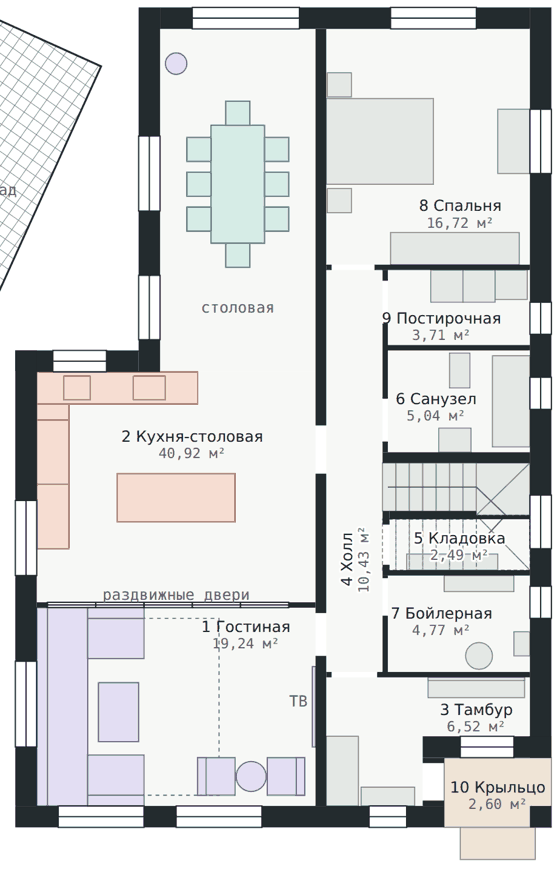
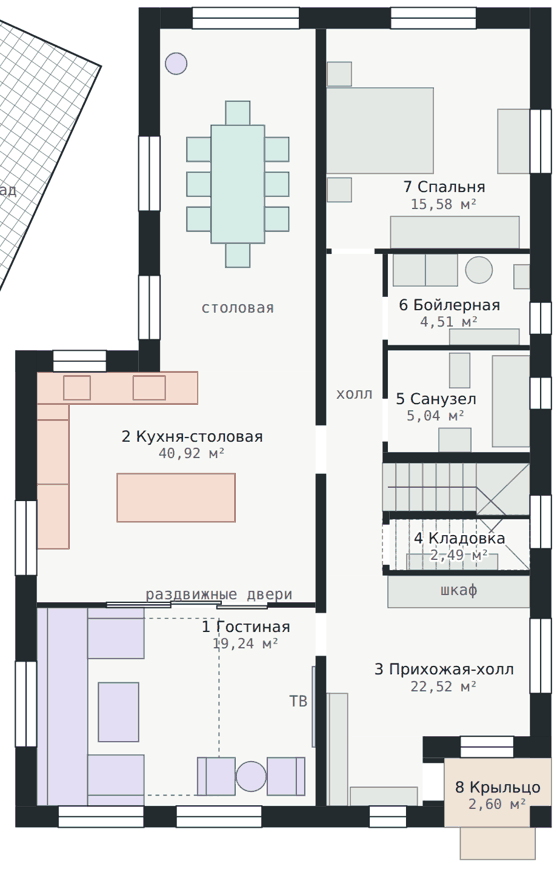
Variant 5: open entrance hall, boiler room back by the bathroom, new kitchen partition
All walls in front of the stair are removed, so the entrance is one open
hall with a full-height wardrobe, an open coat rack with a bench, a shoe
cabinet and a mirror. The boiler room returns next to the bathroom and
grows to 4.5 m2 by moving the bedroom wall back 0.3 m. The living/kitchen
partition is now solid at both ends with fixed glass and two sliding
glass leaves.

Claude-Session: https://claude.ai/code/session_01Nq58rekvZSDXxWiDhZZmV7

diff --git a/dom/v5-dvuskatnaya.html b/dom/v5-dvuskatnaya.html
@@ -82,7 +82,7 @@ tr.out td{color:var(--muted)}
 <svg width="0" height="0" style="position:absolute" aria-hidden="true" focusable="false"><defs><pattern id="hatch" width="9" height="9" patternUnits="userSpaceOnUse" patternTransform="rotate(35)"><path d="M0 0 L0 9 M0 0 L9 0" stroke="var(--f-stroke)" stroke-width="1"/></pattern></defs></svg>
 <header>
 <h1>Дом · вариант 5, вход справа, гостиная и кухня слева, двускатная крыша</h1>
-<div class="specs"><span>общая <b>≈ 215,5 м²</b></span><span>1 этаж <b>109,8 м²</b></span><span>2 этаж <b>105,7 м²</b></span><span>сзади <b>7,7 × 6,4 м</b></span><span>спереди <b>10,0 × 8,9 м</b></span><span>склад <b>5,5 × 5,6 м</b></span><span>балкон <b>7,3 м²</b></span><span>длина <b>15,3 м</b></span><span>фундамент <b>плита 250 мм с рёбрами</b></span><span>крыша <b>двускатная, 30°</b>, конёк <b>≈ 8,2 м</b> от земли</span><span>2 этаж у наружных стен <b>1,5–2,3 м</b></span></div>
+<div class="specs"><span>общая <b>≈ 216,0 м²</b></span><span>1 этаж <b>110,3 м²</b></span><span>2 этаж <b>105,7 м²</b></span><span>сзади <b>7,7 × 6,4 м</b></span><span>спереди <b>10,0 × 8,9 м</b></span><span>склад <b>5,5 × 5,6 м</b></span><span>балкон <b>7,3 м²</b></span><span>длина <b>15,3 м</b></span><span>фундамент <b>плита 250 мм с рёбрами</b></span><span>крыша <b>двускатная, 30°</b>, конёк <b>≈ 8,2 м</b> от земли</span><span>2 этаж у наружных стен <b>1,5–2,3 м</b></span></div>
 </header>
 <div class="row">
 <div class="bar big" id="floors"><span class="lbl">Показать</span>
@@ -112,7 +112,7 @@ tr.out td{color:var(--muted)}
 <svg id="fplan" viewBox="0 -70 680 960" width="100%" role="img" style="min-width:540px"><title>План фундамента</title><desc>Монолитная плита 250 мм по контуру дома: сзади 7,7 м, спереди 10,0 м, длина 15,3 м, в правом переднем углу вырез под крыльцо. Рёбра под плитой показаны пунктиром, отдельные плиты крыльца и площадки у двери в сад, привязка к границе участков и переднему забору. Размеры в мм.</desc></svg>
 <svg id="fsec" viewBox="0 0 680 300" width="100%" role="img" style="min-width:540px;margin-top:6px"><title>Край плиты в разрезе</title><desc>Разрез по наружной стене: стена 400, плита 250, ребро 400 × 400, ЭППС 100, подушка 300, утеплённая отмостка, отметки от чистого пола.</desc></svg>
 </div>
-<svg id="plan1" viewBox="0 0 680 760" width="100%" role="img" style="min-width:540px" hidden><title>План первого этажа</title><desc>Первый этаж, вариант 5: спереди дом шириной 10 м. Вход справа: крыльцо в правом переднем углу под вторым этажом, за ним тамбур и холл. Слева от фасада назад гостиная, за стеклянными дверями кухня с островом и в узкой задней части столовая с выходом в сад. Справа тамбур-прихожая с вешалкой и обувницей, бойлерная, холл, лестница с кладовкой, санузел, постирочная и спальня. Размеры в мм.</desc></svg>
+<svg id="plan1" viewBox="0 0 680 760" width="100%" role="img" style="min-width:540px" hidden><title>План первого этажа</title><desc>Первый этаж, вариант 5: спереди дом шириной 10 м. Вход справа: крыльцо в правом переднем углу под вторым этажом, за ним большая прихожая-холл. Слева от фасада назад гостиная, за перегородкой с раздвижными стеклянными дверями кухня с островом и в узкой задней части столовая с выходом в сад. Справа прихожая-холл без перегородок до лестницы, со шкафом, вешалкой и обувницей, дальше лестница с кладовкой, санузел, бойлерная и спальня. Размеры в мм.</desc></svg>
 <svg id="plan2" viewBox="0 0 680 760" width="100%" role="img" style="min-width:540px"><title>План второго этажа</title><desc>Второй этаж, вариант 5, полумансардный под двускатной крышей: мастер-спальня, гардеробная и санузел в задней части, Г-образная спальня, большой общий санузел, коридор с лестницей справа, кабинет с выходом на балкон слева спереди и спальня справа спереди. Пунктиром показаны окна в крыше. Размеры в мм.</desc></svg>
 </div>
 <div class="card">
@@ -132,15 +132,13 @@ tr.out td{color:var(--muted)}
 <caption>Экспликация · 1 этаж</caption>
 <tr><td>1</td><td>Гостиная</td><td>19,24</td></tr>
 <tr><td>2</td><td>Кухня-столовая</td><td>40,92</td></tr>
-<tr><td>3</td><td>Тамбур-прихожая</td><td>6,52</td></tr>
-<tr><td>4</td><td>Холл и коридор с лестницей</td><td>10,43</td></tr>
-<tr><td>5</td><td>Кладовка под лестницей</td><td>2,49</td></tr>
-<tr><td>6</td><td>Санузел</td><td>5,04</td></tr>
-<tr><td>7</td><td>Бойлерная</td><td>4,77</td></tr>
-<tr><td>8</td><td>Спальня</td><td>16,72</td></tr>
-<tr><td>9</td><td>Постирочная</td><td>3,71</td></tr>
-<tr class="sum"><td></td><td>Итого</td><td>109,84</td></tr>
-<tr class="out"><td>10</td><td>Крыльцо</td><td>2,60</td></tr>
+<tr><td>3</td><td>Прихожая-холл с лестницей</td><td>22,52</td></tr>
+<tr><td>4</td><td>Кладовка под лестницей</td><td>2,49</td></tr>
+<tr><td>5</td><td>Санузел</td><td>5,04</td></tr>
+<tr><td>6</td><td>Бойлерная</td><td>4,51</td></tr>
+<tr><td>7</td><td>Спальня</td><td>15,58</td></tr>
+<tr class="sum"><td></td><td>Итого</td><td>110,30</td></tr>
+<tr class="out"><td>8</td><td>Крыльцо</td><td>2,60</td></tr>
 </table>
 <table id="t2">
 <caption>Экспликация · 2 этаж</caption>
@@ -173,17 +171,17 @@ tr.out td{color:var(--muted)}
 <li><b>Фундамент — монолитная плита 250 мм</b> ровно по контуру дома, 135,7 м². Снизу рёбра: по контуру 400 × 400 мм под наружными стенами и одно ребро 300 × 300 мм под несущей стеной вдоль дома, 13,2 м. Остальные стены первого этажа — перегородки, отдельные рёбра под ними не нужны. Верх плиты на −0,100, на стяжку и пол остаётся 100 мм. Низ плиты на уровне земли, низ рёбер на −0,750. Под плитой ЭППС 100 мм и песчано-щебёночная подушка 300 мм, торец плиты утеплён, вокруг утеплённая отмостка. Бетона под дом уходит ≈43,1 м³. Крыльцо в правом переднем углу и площадка у двери в сад стоят на отдельных плитах 200 мм через шов, под угловой стойкой крыльца отдельная опора. Сечения ориентировочные: армирование и точные размеры считает конструктор по геологии участка.</li>
 <li><b>Mercedes Atego с кузовом 7 м</b> (вся машина около 9,3 м) заезжает вдоль переднего забора и проезжает вперёд до границы второго участка. До забора 0,5 м, до фасада около 1,5 м, проход к крыльцу остаётся. Чтобы грузовик заезжал прямо вдоль забора, ворота 4,5 м сдвинуты в самый угол торца, калитка дальше по торцу. Это работает, если с улицы он подъезжает примерно вдоль переднего забора. Площадка засыпана асфальтной крошкой. Кузов высотой около 3,3 м будет стоять напротив окон гостиной и тамбура на фасаде и затенять его.</li>
 <li><b>Склад 5,5 × 5,6 м</b> стоит стороной 5,6 м вплотную к левому забору, под углом ≈24° к дому. Склад обшит OSB. Дверь пластиковая прозрачная, у склада два окна 1 × 1 м: рядом с дверью слева и справа за углом. Через 1 м после склада вдоль забора в сторону ворот стоит вагончик-бытовка 8 × 2,4 м на блоках: обшит серым профлистом, по контуру синий профиль, крыша плоская чёрная. Дверь справа на длинной стороне к двору, окна только в торцах. Между углом склада и задней частью дома проход 0,7 м, от передней широкой части до склада тоже 0,7 м. Склад стоит на стальных сваях с зазором 40 см от земли. Корпус высотой 3 м со стороны дома и 2 м у забора, крыша со скатом к забору. Вход через обычную пластиковую дверь с крыльцом из трёх ступенек в торце со стороны входа в дом.</li>
-<li><b>Вариант 5.</b> Форма дома как в четвёртом: сзади 7,7 м по линии выступа, с 6,4 м от задней стены одна ступенька и дальше до фасада 10 м, до склада везде 0,7 м. Вход справа: крыльцо 2,0 × 1,3 м утоплено в правый передний угол под второй этаж, на углу стойка. Дверь с крыльца ведёт в тамбур, из него в холл. Слева вся ширина от фасада до сада отдана дневной зоне: спереди гостиная, за ней кухня, в конце дома, в узкой части шириной 2,9 м, столовая с выходом в сад. Справа тамбур-прихожая, бойлерная, холл с лестницей, санузел, постирочная и спальня. Крыша двускатная с коньком над несущей стеной, второй этаж полумансардный.</li>
-<li><b>Гостиная, кухня и столовая.</b> Крыльцо и тамбур ушли направо, поэтому гостиная вышла на фасад, а кухня стала глубже. Гостиная 19,2 м² у фасада: П-образный диван во всю глубину комнаты вдоль левой стены, от перегородки до фасада, боковины выходят от стены на 2 м. Телевизор на несущей стене, у окна на фасад два кресла, из гостиной дверь в холл. За стеклянными раздвижными дверями кухня 5,2 × 4,3 м. Столешница с мойкой и варочной вдоль задней стены, вдоль левой стены колонны с холодильником и духовкой и ещё одна столешница под окном, посередине остров 2,2 × 0,9 м, из кухни своя дверь в холл. Дальше, в узкой задней части, столовая: стол 2,2 × 1,0 м вдоль дома на 8 человек и стеклянная дверь 2 м в сад. Кухня и столовая вместе 40,9 м².</li>
-<li><b>Правая половина.</b> Гостевой нет, на её месте тамбур-прихожая 6,5 м² и бойлерная. Тамбур Г-образный: у входа 1,8 × 1,3 м, за ним поперёк всей правой половины полоса 3,8 × 1,1 м. У несущей стены закрытый шкаф 1,3 м, у фасада под окном обувница 1 м с сиденьем-столешницей, на несущей стене зеркало в рост. Напротив окна на крыльцо открытая вешалка 1,8 м: скамья, крючки и полка для шапок. Из тамбура дверь в холл. Бойлерная 4,8 м² (было 3,7) за стеной вешалки, вход из холла, окно в правой стене, котёл на наружной стене, рядом бойлер косвенного нагрева, у задней стены стеллаж и щит. Старая бойлерная у санузла стала постирочной 3,7 м²: стиральная и сушильная машины, раковина, полка над ними. Дальше назад холл вдоль несущей стены, лестница с кладовкой под ней, санузел 5,0 м² и спальня 16,7 м².</li>
+<li><b>Вариант 5.</b> Форма дома как в четвёртом: сзади 7,7 м по линии выступа, с 6,4 м от задней стены одна ступенька и дальше до фасада 10 м, до склада везде 0,7 м. Вход справа: крыльцо 2,0 × 1,3 м утоплено в правый передний угол под второй этаж, на углу стойка. Дверь с крыльца ведёт сразу в большую прихожую-холл. Слева вся ширина от фасада до сада отдана дневной зоне: спереди гостиная, за ней кухня, в конце дома, в узкой части шириной 2,9 м, столовая с выходом в сад. Справа прихожая-холл с лестницей, санузел, бойлерная и спальня. Крыша двускатная с коньком над несущей стеной, второй этаж полумансардный.</li>
+<li><b>Гостиная, кухня и столовая.</b> Крыльцо и прихожая ушли направо, поэтому гостиная вышла на фасад, а кухня стала глубже. Гостиная 19,2 м² у фасада: П-образный диван во всю глубину комнаты вдоль левой стены, от перегородки до фасада, боковины выходят от стены на 2 м. Телевизор на несущей стене, у окна на фасад два кресла, из гостиной дверь в холл. Между гостиной и кухней перегородка: у левой стены глухой участок 1,3 м за углом дивана, дальше неподвижное стекло 1,2 м, две стеклянные раздвижные створки на проём 1,8 м и у несущей стены ещё глухой участок 0,9 м, за него уезжает правая створка. За перегородкой кухня 5,2 × 4,3 м. Столешница с мойкой и варочной вдоль задней стены, вдоль левой стены колонны с холодильником и духовкой и ещё одна столешница под окном, посередине остров 2,2 × 0,9 м, из кухни своя дверь в холл. Дальше, в узкой задней части, столовая: стол 2,2 × 1,0 м вдоль дома на 8 человек и стеклянная дверь 2 м в сад. Кухня и столовая вместе 40,9 м².</li>
+<li><b>Правая половина.</b> Спереди, от входа до лестницы, одна большая прихожая-холл без перегородок, около 13,7 м², вместе с холлом вдоль несущей стены и площадкой у лестницы 22,5 м². Сразу у входа вдоль несущей стены открытая вешалка 2,1 м: скамья, крючки и полка для шапок, у фасада под окном закрытая обувница 1,25 м, между дверью в гостиную и вешалкой зеркало в рост. Вдоль стены лестницы большой шкаф 2,65 м на всю высоту, в нём верхняя одежда по сезону и полки для обуви. Середина остаётся свободной, в правой стене окно. Бойлерная вернулась на старое место у санузла и стала больше: 4,5 м² вместо 3,7, для этого стена спальни сдвинута на 0,3 м. В бойлерной котёл на наружной стене, бойлер косвенного нагрева, стиральная и сушильная машины, стеллаж с фильтрами и щит, окно в правой стене. Спальня сзади 15,6 м².</li>
 <li><b>Лестница у правой стены,</b> как в первом варианте. Нижний марш идёт из холла к правой стене, там четыре забежные ступени, верхний марш возвращается над кладовкой. 18 подъёмов по 170 мм, проступь 250 мм. Дверь в кладовку из холла, там, где под лестницей выше всего.</li>
-<li><b>Несущая стена вдоль дома</b> идёт от задней стены до фасада, 14,5 м. На первом этаже она отделяет гостиную, кухню и столовую от тамбура, холла и спальни, в ней две двери: из гостиной и из кухни в холл. Конёк крыши идёт прямо над ней по всей длине дома, коньковый прогон опирается на неё. Перекрытие справа перекрывает 3,8 м, слева в широкой части 5,2 м, там нужны плиты перекрытия или усиленные балки. Стеклянная перегородка между гостиной и кухней ненесущая.</li>
+<li><b>Несущая стена вдоль дома</b> идёт от задней стены до фасада, 14,5 м. На первом этаже она отделяет гостиную, кухню и столовую от прихожей, холла и спальни, в ней две двери: из гостиной и из кухни в холл. Конёк крыши идёт прямо над ней по всей длине дома, коньковый прогон опирается на неё. Перекрытие справа перекрывает 3,8 м, слева в широкой части 5,2 м, там нужны плиты перекрытия или усиленные балки. Перегородка между гостиной и кухней ненесущая.</li>
 <li><b>Крыша двускатная, уклон 30°.</b> Конёк идёт вдоль всего дома над несущей стеной на высоте ≈ 7,8 м от пола 1 этажа (≈ 8,2 м от земли), на 0,7 м ниже, чем в четвёртом варианте. Спереди и сзади фронтоны. Левый скат над широкой частью длиннее правого и опускается ниже на 0,8 м, поэтому фасад несимметричный. Над узкой задней частью тот же левый скат обрезан по стене, сзади слева получается ступенька в карнизе. Свесы по 500 мм.</li>
 <li><b>Второй этаж полумансардный.</b> Стены второго этажа доходят до скатов. Справа наружная стена 2,2 м, в комнате у стены 2,3 м. Слева в широкой части стена 1,4 м, у стены в комнате 1,5 м, а в 1,7 м от неё уже 2,5 м. Сзади слева, в узкой части, стена почти полная, 2,7 м. В низкой левой стене вертикальные окна не помещаются, поэтому в спальне, общем санузле и кабинете стоят окна в крыше. Справа и во фронтонах окна обычные, справа чуть ниже прежних.</li>
 <li><b>Снег.</b> Левый скат широкой части смотрит в сторону склада и вагончика, снег с него сходит туда, а край крыши подходит к переднему углу склада почти вплотную. Над узкой частью край крыши, как и раньше, над углом склада. На левом скате нужны снегозадержатели и водосток.</li>
 <li><b>Мастер-спальня</b> занимает весь второй этаж выступа, 29,7 м². Несущая стена проходит через неё широким проёмом 2,6 м: справа кровать, слева зона отдыха с двумя креслами у заднего окна и рабочим столом у бокового. Из коридора в неё по-прежнему проходишь через гардеробную, в свой санузел ведут две двери. Спальня 4 стала Г-образной, 14,4 м²: кровать в узкой части у несущей стены, в широкой части шкаф 3 м и стол под окном в крыше.</li>
 <li><b>Второй этаж.</b> Задняя часть с мастер-спальней, гардеробной и её санузлом такая же, как в прошлых вариантах. Лестница справа, общий санузел слева 8 м²: ванна, отдельный душ, две раковины и стиральная машина, унитаз под окном в крыше. Кабинет слева спереди 15,3 м², из него выход на балкон 5,6 × 1,3 м. Спальня 16,2 м² справа спереди.</li>
-<li><b>Стояки.</b> Плита лежит на грунте, поэтому слив кухни, санузла, постирочной и бойлерной первого этажа уходит прямо вниз, трубы закладывают под плиту до заливки. Мастер-санузел второго этажа стоит над санузлом и постирочной первого, его стояк проходит там. Унитаз общего санузла стоит у левой стены, его стояк спускается в кухонную колонну у левой стены.</li>
+<li><b>Стояки.</b> Плита лежит на грунте, поэтому слив кухни, санузла и бойлерной первого этажа уходит прямо вниз, трубы закладывают под плиту до заливки. Мастер-санузел второго этажа стоит над санузлом и бойлерной первого, его стояк проходит там. Унитаз общего санузла стоит у левой стены, его стояк спускается в кухонную колонну у левой стены.</li>
 <li><b>Балкон 5,6 × 1,3 м</b> остался на втором этаже слева спереди, теперь под ним часть гостиной, поэтому пол балкона делают как эксплуатируемую кровлю с гидроизоляцией и уклоном. Он под левым скатом: у двери в кабинет высота 2,4 м, к левому краю скат опускается до 1,3 м. Выход на балкон из кабинета через стеклянную дверь 2400.</li>
 <li><b>Площади</b> посчитаны по модели по внутренним размерам комнат. Лестница с забежными ступенями, 18 подъёмов по 170 мм. Это схема для обсуждения, не рабочий чертёж.</li>
 </ul>
@@ -195,24 +193,22 @@ walls1:[
  {o:'v',a0:-400,a1:6400,c0:300,c1:700,ops:[{f:2000,t:3400,s:900,h:2700,k:'w'},{f:4600,t:5800,s:800,h:2600,k:'w'}]},
  {o:'h',a0:-2000,a1:300,c0:6000,c1:6400,ops:[{f:-1300,t:-300,s:1050,h:2300,k:'w'}]},
  {o:'h',a0:700,a1:7600,c0:-400,c1:0,ops:[{f:1300,t:3300,s:0,h:2400,k:'g'},{f:5000,t:6600,s:800,h:2600,k:'w'}]},
- {o:'v',a0:-400,a1:13600,c0:7600,c1:8000,ops:[{f:1500,t:2700,s:800,h:2600,k:'w'},{f:5100,t:5700,s:1200,h:2000,k:'w'},{f:6500,t:7100,s:1400,h:2100,k:'w'},{f:8700,t:9700,s:1600,h:2800,k:'w'},{f:10400,t:11000,s:1200,h:2000,k:'w'}]},
+ {o:'v',a0:-400,a1:13600,c0:7600,c1:8000,ops:[{f:1500,t:2700,s:800,h:2600,k:'w'},{f:5100,t:5700,s:1200,h:2000,k:'w'},{f:6500,t:7100,s:1400,h:2100,k:'w'},{f:8700,t:9700,s:1600,h:2800,k:'w'},{f:11000,t:12400,s:800,h:2600,k:'w'}]},
  {o:'v',a0:14500,a1:14900,c0:7600,c1:8000,ops:[]},
  {o:'v',a0:6000,a1:14500,c0:-2000,c1:-1600,ops:[{f:8800,t:10200,s:1050,h:2300,k:'w'},{f:11800,t:13400,s:900,h:2600,k:'w'}]},
  {o:'h',a0:-2000,a1:6000,c0:14500,c1:14900,ops:[{f:-1200,t:400,s:900,h:2400,k:'w'},{f:1000,t:2600,s:900,h:2400,k:'w'},{f:4600,t:5300,s:900,h:2300,k:'w'}]},
  {o:'v',a0:13600,a1:14500,c0:5600,c1:6000,ops:[{f:13700,t:14400,s:0,h:2200,k:'d'}]},
  {o:'h',a0:5600,a1:8000,c0:13200,c1:13600,ops:[{f:6300,t:7300,s:900,h:2300,k:'w'}]},
  {o:'v',a0:0,a1:14500,c0:3600,c1:3800,ops:[{f:7400,t:8300,s:0,h:2100,k:'d'},{f:10900,t:11700,s:0,h:2100,k:'d'}]},
- {o:'h',a0:-1600,a1:3600,c0:10700,c1:10800,ops:[-1400,-500,400,1300,2200].map(f=>({f,t:f+900,s:0,h:2400,k:'g'}))},
- {o:'h',a0:3800,a1:7600,c0:4400,c1:4500,ops:[{f:3900,t:4700,s:0,h:2100,k:'d'}]},
- {o:'v',a0:4500,a1:7900,c0:4850,c1:4950,ops:[{f:4700,t:5500,s:0,h:2100,k:'d'},{f:6900,t:7700,s:0,h:2100,k:'d'}]},
+ {o:'h',a0:-1600,a1:3600,c0:10700,c1:10800,ops:[{f:-300,t:900,s:0,h:2400,k:'g'},{f:900,t:2700,s:0,h:2400,k:'s'}]},
+ {o:'h',a0:3800,a1:7600,c0:4100,c1:4200,ops:[{f:3900,t:4700,s:0,h:2100,k:'d'}]},
+ {o:'v',a0:4200,a1:7900,c0:4850,c1:4950,ops:[{f:5000,t:5800,s:0,h:2100,k:'d'},{f:6900,t:7700,s:0,h:2100,k:'d'}]},
  {o:'h',a0:4950,a1:7600,c0:5900,c1:6000,ops:[]},
  {o:'h',a0:4850,a1:7600,c0:7900,c1:8100,ops:[]},
  {o:'h',a0:4980,a1:6600,c0:9000,c1:9150,ops:[]},
  {o:'h',a0:6600,a1:7600,c0:9075,c1:9150,ops:[],hh:1300},
  {o:'v',a0:9000,a1:10100,c0:4850,c1:4980,ops:[{f:9250,t:10000,s:0,h:2000,k:'d'}]},
- {o:'h',a0:4850,a1:7600,c0:10100,c1:10200,ops:[]},
- {o:'v',a0:10200,a1:12000,c0:4850,c1:4950,ops:[{f:10250,t:10950,s:0,h:2100,k:'d'}]},
- {o:'h',a0:3800,a1:7600,c0:12000,c1:12100,ops:[{f:3900,t:4750,s:0,h:2100,k:'d'}]}
+ {o:'h',a0:4850,a1:7600,c0:10100,c1:10200,ops:[]}
 ],
 walls2:[
  {o:'h',a0:700,a1:7600,c0:-400,c1:0,ops:[{f:1500,t:3300,s:800,h:2400,k:'w'},{f:4800,t:6800,s:700,h:2400,k:'w'}],gable:1},
@@ -233,7 +229,7 @@ walls2:[
  {o:'v',a0:10250,a1:13200,c0:3600,c1:3800,ops:[]}
 ],
 floors1:[[700,0,2900,6400,'w'],[-1600,6400,5200,4300,'t'],[-1600,10800,5200,3700,'w'],
- [3800,0,3800,4400,'w'],[3800,4500,1050,7500,'t'],[3800,12100,3800,1100,'t'],[3800,13200,1800,1300,'t'],[4950,4500,2650,1400,'t'],[4950,6000,2650,1900,'b'],[4850,8100,2750,900,'t'],[4980,9150,2620,950,'t'],[4950,10200,2650,1800,'t']],
+ [3800,0,3800,4100,'w'],[3800,4200,1050,6000,'t'],[3800,10200,3800,3000,'t'],[3800,13200,1800,1300,'t'],[4950,4200,2650,1700,'t'],[4950,6000,2650,1900,'b'],[4850,8100,2750,900,'t'],[4980,9150,2620,950,'t']],
 floors2:[[4000,0,3600,4350,'w'],[700,0,3300,4350,'w'],[3800,4500,1900,3600,'w'],[5800,4500,1800,3600,'b'],[700,4500,2900,1900,'w'],[-1600,6400,5200,1700,'w'],[-1600,8250,4300,1850,'b'],
  [2800,8250,2050,1850,'w'],[-1600,10250,5200,2950,'w'],[3800,10250,3800,4250,'w']],
 ROOF:{ridge:3700,knee:2100}
@@ -303,7 +299,9 @@ function drawPlan(svg,P){
   w.ops.forEach(op=>{piece(cur,op.f);cur=op.t;
    if(op.k==='w'||op.k==='g'){const m=(w.c0+w.c1)/2,st={fill:'none',stroke:'var(--wall)','stroke-width':1};
     if(w.o==='h'){R(op.f,w.c0,op.t-op.f,w.c1-w.c0,st);el('line',{x1:X(op.f),x2:X(op.t),y1:Y(m),y2:Y(m),stroke:'var(--wall)','stroke-width':1});}
-    else{R(w.c0,op.f,w.c1-w.c0,op.t-op.f,st);el('line',{x1:X(m),x2:X(m),y1:Y(op.f),y2:Y(op.t),stroke:'var(--wall)','stroke-width':1});}}});
+    else{R(w.c0,op.f,w.c1-w.c0,op.t-op.f,st);el('line',{x1:X(m),x2:X(m),y1:Y(op.f),y2:Y(op.t),stroke:'var(--wall)','stroke-width':1});}}
+   if(op.k==='s'&&w.o==='h'){const hl=(op.t-op.f)/2+40,st={fill:'var(--bg)',stroke:'var(--wall)','stroke-width':1};
+    R(op.f,w.c0-20,hl,55,st);R(op.t-hl,w.c1-35,hl,55,st);}});
   piece(cur,w.a1);
  });
  (P.rails||[]).forEach(r=>el('line',{x1:X(r[0]),y1:Y(r[1]),x2:X(r[2]),y2:Y(r[3]),stroke:'var(--f-stroke)','stroke-width':1.5}));
@@ -335,20 +333,19 @@ drawPlan(document.getElementById('plan1'),{
   ['d',1650,1800,1000,2200],['d',1200,2025,450,450],['d',1200,2675,450,450],['d',1200,3325,450,450],['d',2650,2025,450,450],['d',2650,2675,450,450],['d',2650,3325,450,450],['d',1925,1350,450,450],['d',1925,4000,450,450],
   ['l',-1600,10800,950,3700],['l',-1600,10800,200,3700],['l',-650,10800,1050,950],['l',-650,10800,1050,200],['l',-650,13550,1050,950],['l',-650,14300,1050,200],
   ['l',-450,12200,750,1100],['l',3540,11900,60,1500],['l',1400,13600,700,700],['l',1400,13600,160,700],['l',2700,13600,700,700],['l',3240,13600,160,700],
-  ['f',3800,13200,600,1300],['f',4450,14150,1000,350],['f',5700,12100,1800,380],['f',5700,12100,1800,60],
-  ['f',3800,1300,2000,1600],['f',3820,820,450,450],['f',3820,2980,450,450],['f',5000,3800,2400,600],['f',7000,1500,600,1200],
-  ['f',5750,4500,600,600],['f',6350,4500,600,600],['f',6950,4500,600,550],['f',7300,11250,300,450],
+  ['f',4950,10200,2650,600],['f',3800,12400,400,2100],['f',3800,12400,60,2100],['f',4250,14150,1250,350],
+  ['f',3800,1100,2000,1600],['f',3820,620,450,450],['f',3820,2780,450,450],['f',5000,3500,2400,600],['f',7000,1500,600,1200],
+  ['f',5050,4200,600,600],['f',5650,4200,600,600],['f',7300,4400,300,450],['f',6100,5600,1300,300],
   ['f',6900,6100,700,1700],['f',6100,6050,380,650],['f',5900,7450,600,450],
-  ['f',5300,9800,1700,300],
-  ['f',6000,10200,1300,300]],
- circ:[['f',6650,11700,250],['l',1000,650,200],['l',2400,13950,280]],
+  ['f',5300,9800,1700,300]],
+ circ:[['f',6650,4500,250],['l',1000,650,200],['l',2400,13950,280]],
  stair:(el,R,PT,g)=>{stairTreads(g,R,false);winders(el,PT,g,{fill:'none',stroke:'var(--f-stroke)','stroke-width':0.8,'stroke-dasharray':'3 2'});
   el('polyline',{points:PT([[4950,8550],[6600,8550],[7150,9075],[6700,9560]]),fill:'none',stroke:'var(--muted)','stroke-width':1});
   el('polygon',{points:PT([[6760,9480],[6620,9640],[6640,9440]]),fill:'var(--muted)'});},
- labels:[['1 Гостиная','19,24',2300,11250],['2 Кухня-столовая','40,92',1300,7700],['3 Тамбур','6,52',6600,12800],['4 Холл','10,43',4325,9900,'v',1],
-  ['5 Кладовка','2,49',6290,9600,'middle',1],['6 Санузел','5,04',5850,7000],['7 Бойлерная','4,77',5950,11000],['8 Спальня','16,72',6300,3400],['9 Постирочная','3,71',5950,5500],
-  ['10 Крыльцо','2,60',7000,14250]],
- notes:[['склад',-2400,3100,'middle'],['раздвижные двери',1000,10660,'middle'],['ТВ',3450,12650,'end'],['столовая',2150,5300,'middle']]
+ labels:[['1 Гостиная','19,24',2300,11250],['2 Кухня-столовая','40,92',1300,7700],['3 Прихожая-холл','22,52',6000,12050],
+  ['4 Кладовка','2,49',6290,9600,'middle',1],['5 Санузел','5,04',5850,7000],['6 Бойлерная','4,51',6100,5250],['7 Спальня','15,58',6000,3050],
+  ['8 Крыльцо','2,60',7000,14250]],
+ notes:[['склад',-2400,3100,'middle'],['раздвижные двери',1800,10640,'middle'],['холл',4325,6900,'middle'],['шкаф',6275,10560,'middle'],['ТВ',3450,12650,'end'],['столовая',2150,5300,'middle']]
 });
 (function site(){
  /* план участков в ориентации эскиза: задний забор сверху, граница с …300 справа от дома */
@@ -538,7 +535,7 @@ drawPlan(document.getElementById('plan2'),{
 const HS=window.HOUSE;
 const msg=document.getElementById('msg');
 const state={floor:2,tab:'v3',view:'front',cut:false,roof:true};
-const VIEWS={1:[['all','Общий вид'],['top','Сверху'],['front','Со стороны входа'],['entry','Крыльцо'],['nw','Со стороны склада'],['site','Участок и склад'],['truck','Ворота и Атего'],['old','Дом на …300'],['dining','Столовая'],['living','Гостиная'],['kitchen','Кухня'],['corridor','Холл'],['stair','Лестница'],['stairtop','Лестница сверху'],['bedroom','Спальня'],['tambur','Тамбур'],['veshalka','Вешалка'],['boiler','Бойлерная']],
+const VIEWS={1:[['all','Общий вид'],['top','Сверху'],['front','Со стороны входа'],['entry','Крыльцо'],['nw','Со стороны склада'],['site','Участок и склад'],['truck','Ворота и Атего'],['old','Дом на …300'],['dining','Столовая'],['living','Гостиная'],['kitchen','Кухня'],['corridor','Холл'],['stair','Лестница'],['stairtop','Лестница сверху'],['bedroom','Спальня'],['priem','Прихожая'],['priemtop','Прихожая сверху'],['boiler','Бойлерная'],['glass','Перегородка']],
  2:[['front','Со стороны входа'],['entry','Крыльцо'],['nw','Со стороны склада'],['site','Участок и склад'],['truck','Ворота и Атего'],['old','Дом на …300'],['all2','Общий вид'],['top2','Сверху'],['master','Мастер-спальня'],['lounge','Мастер: зона отдыха'],['closet','Гардеробная'],['nwbed','Спальня у склада'],['swbed','Спальня спереди'],['corridor2','Коридор и лестница'],['cabinet','Кабинет'],['balcony','Балкон']],
  0:[['fall','Общий вид'],['ftop','Сверху'],['ffront','Со стороны входа'],['fnw','Со стороны склада'],['fbelow','Снизу, рёбра']]};
 const viewsBar=document.getElementById('views'),hint=document.getElementById('hint');
@@ -640,6 +637,9 @@ function buildWalls(list,Hc0,parent,top){
     put(op.f,fr,op.s,tp-op.s,fc,null,fd,fo);put(op.t-fr,fr,op.s,tp-op.s,fc,null,fd,fo);
     if(L>=1500)put(op.f+L/2-fr/2,fr,op.s,tp-op.s,fc,null,fd,fo);
    }
+    if(op.k==='s'){const tp=Math.min(op.h,Ho),fr=50,hl=L/2+40;
+     [[op.f,w.c0+5],[op.t-hl,w.c1-45]].forEach(([a,off])=>{const g=put(a,hl,0,tp,null,glass,20,off+10);if(g)g.castShadow=false;
+      put(a,fr,0,tp,fc,null,40,off);put(a+hl-fr,fr,0,tp,fc,null,40,off);put(a,hl,0,fr,fc,null,40,off);put(a,hl,tp-fr,fr,fc,null,40,off);});}
    cur=op.t;});
   solid(cur,w.a1);
  });
@@ -695,20 +695,22 @@ table(1650,1800,1000,2200,0);[2250,2900,3550].forEach(c=>{chair(1425,c,'W');chai
 B(2130,1900,40,2000,1950,30,'#222');B(2140,1900,20,2000,1935,15,'#ffe7b0',null,{emissive:'#ffd98a',emissiveIntensity:0.9});
 B(2145,2100,10,10,1980,HS.H1-1980,'#333');B(2145,3700,10,10,1980,HS.H1-1980,'#333');
 Cyl(1000,650,170,0,450,'#8a7c6a');{const lf=new THREE.Mesh(new THREE.SphereGeometry(0.34,20,14),mat('#5f8a50'));lf.position.set(1.0,0.8,0.65);lf.castShadow=true;f1.add(lf);}
-/* справа: тамбур-прихожая, холл, бойлерная, санузел, постирочная, кладовка под лестницей, спальня сзади */
-B(3800,13200,600,1300,0,2200,light);B(4400,13849,6,2,20,2160,'#9a9a96');B(4400,13770,14,20,850,450,dark);B(4400,13910,14,20,850,450,dark);
-B(4450,14150,1000,350,0,850,light);B(4440,14140,1020,370,850,25,top);
-B(3800,12250,15,750,300,1700,mirror,null,{roughness:0.1,metalness:0.4});
-B(5700,12100,1800,380,0,420,light);B(5720,12120,1760,340,420,60,'#8a7c6a');B(5700,12100,1800,20,480,1450,'#c9b38f');B(5700,12100,1800,300,1930,30,light);
-for(let x=5850;x<7450;x+=220)B(x,12120,30,90,1700,30,dark);
-[[5900,'#3f4a5a'],[6340,'#7a5a3a'],[6780,'#5a6b4a']].forEach(([x,c])=>B(x,12125,340,160,950,760,c));
-B(5750,4500,600,600,0,850,'#f2f2f2');B(6350,4500,600,600,0,850,'#f2f2f2');B(6950,4500,600,550,0,850,light);B(6940,4490,620,570,850,30,top);B(7100,4620,300,300,880,20,white);
-B(5750,4500,1800,300,1550,25,light);
-B(7300,11250,300,450,1200,750,white);B(7420,11420,180,110,1950,500,'#b8b8b4');Cyl(6650,11700,250,0,1500,'#e8e8e8');B(6000,10200,30,300,0,1800,'#9a9a96');B(7270,10200,30,300,0,1800,'#9a9a96');[300,800,1300,1780].forEach(z=>B(6000,10200,1300,300,z,20,light));Cyl(6250,10350,90,320,420,'#3f6f9a');Cyl(6500,10350,90,320,420,'#3f6f9a');B(6800,10230,420,240,820,300,'#cc3d3d');B(4960,11300,120,500,1300,650,'#cfcfcc');
+/* справа: прихожая-холл без перегородок до лестницы, бойлерная, санузел, кладовка под лестницей, спальня сзади */
+B(4950,10200,2650,600,0,2400,light);[1,2,3].forEach(i=>{const x=4950+i*662;B(x-1,10800,2,6,20,2360,'#9a9a96');B(x-70,10800,14,20,850,450,dark);B(x+56,10800,14,20,850,450,dark);});
+B(3800,12400,400,2100,0,420,light);B(3820,12420,360,2060,420,60,'#8a7c6a');B(3800,12400,20,2100,480,1450,'#c9b38f');B(3800,12400,300,2100,1930,30,light);
+for(let y=12550;y<14400;y+=220)B(3820,y,90,30,1700,30,dark);
+[[12600,'#3f4a5a'],[13040,'#7a5a3a'],[13480,'#5a6b4a'],[13920,'#8a3f3f']].forEach(([y,c])=>B(3825,y,160,340,950,760,c));
+B(4250,14150,1250,350,0,850,light);B(4240,14140,1270,370,850,25,top);[4250+417,4250+834].forEach(x=>B(x-1,14148,2,4,20,810,'#9a9a96'));
+B(3800,11800,15,550,300,1700,mirror,null,{roughness:0.1,metalness:0.4});
+lamp(5700,12000,2400,HS.H1);lamp(4325,7600,2400,HS.H1);
+B(5050,4200,600,600,0,850,'#f2f2f2');B(5650,4200,600,600,0,850,'#f2f2f2');B(5050,4200,1200,300,1550,25,light);
+B(7300,4400,300,450,1200,750,white);B(7420,4570,180,110,1950,300,'#b8b8b4');Cyl(6650,4500,250,0,1500,'#e8e8e8');
+B(6100,5600,30,300,0,1800,'#9a9a96');B(7370,5600,30,300,0,1800,'#9a9a96');[300,800,1300,1780].forEach(z=>B(6100,5600,1300,300,z,20,light));
+Cyl(6350,5750,90,320,420,'#3f6f9a');Cyl(6600,5750,90,320,420,'#3f6f9a');B(6900,5630,420,240,820,300,'#cc3d3d');B(6200,5620,450,200,1320,420,'#cfcfcc');
 B(6900,6100,700,1700,0,550,'#f7f7f5');B(6960,6180,580,1540,550,5,'#bfd6de');toiletY(6100,6050,false);
 B(5900,7450,600,450,0,800,light);B(6000,7500,400,350,800,80,white);B(5950,7885,500,15,1100,700,mirror,null,{roughness:0.1,metalness:0.4});
 B(5300,9800,1700,300,0,1300,light);
-bed(3800,1300,2000,1600,'W');B(3820,820,450,450,0,500,dark);B(3820,2980,450,450,0,500,dark);B(5000,3800,2400,600,0,2200,light);B(4300,1000,2400,2200,10,8,'#d8cfc2');
+bed(3800,1100,2000,1600,'W');B(3820,620,450,450,0,500,dark);B(3820,2780,450,450,0,500,dark);B(5000,3500,2400,600,0,2200,light);B(4300,800,2400,2200,10,8,'#d8cfc2');
 table(7000,1500,600,1200,0);chair(6775,2100,'W');
 const stairC='#b8916a',RISE=170,SL=300;
 for(let i=0;i<7;i++)B(4850+i*250,8100,250,900,0,(i+1)*RISE,stairC);
@@ -926,8 +928,8 @@ const PLg=HS.PLOT,Gt=PLg.G,Nt=PLg.n;
 const V={entry:[[13.2,2.6,16.2],[6.6,1.5,13.8],'orbit',true],truck:[[-12,8,29],[3,1.5,17],'orbit',true],all:[[-3,20,-1],[3.8,0,7.2],'orbit'],top:[[3.8,27,7.6],[3.8,0,7.2],'orbit'],front:[[9,8,27],[3.5,3,8],'orbit',true],nw:[[-11,8,-9],[4,3,5],'orbit',true],site:[[-1,44,24],[7.5,0,4.5],'orbit',true],old:[[8.5,4.5,24],[16.5,3,9.5],'orbit',true],
  fall:[[-6,9,-5],[3.8,-0.5,7.2],'orbit'],ftop:[[3.8,21,7.65],[3.8,-0.5,7.25],'orbit'],ffront:[[11,5,25],[3.8,-0.5,7.5],'orbit'],fnw:[[-10,5,-7],[3.8,-0.5,6],'orbit'],fbelow:[[-5,-8,21],[3.8,-0.5,7.2],'orbit'],
  dining:[[3.1,1.6,6.6],[1.9,0.8,1.0],'look'],living:[[3.2,1.6,11.2],[-0.8,0.6,13.4],'look'],kitchen:[[3.0,1.6,10.4],[-1.0,0.9,7.0],'look'],
- corridor:[[4.3,1.6,11.8],[4.3,1.3,5.5],'look'],stair:[[4.0,1.6,8.55],[7.6,1.9,8.9],'look'],stairtop:[[4.4,4.6,11.2],[6.2,0.9,9.1],'orbit'],
- bedroom:[[7.3,1.6,3.5],[4.3,0.7,1.8],'look'],tambur:[[5.6,8.4,15.0],[5.6,0.3,12.4],'orbit'],veshalka:[[4.2,1.6,13.0],[7.3,1.0,12.2],'look'],boiler:[[5.2,1.6,10.6],[7.4,1.1,11.6],'look'],
+ corridor:[[4.3,1.6,12.8],[4.3,1.3,5.5],'look'],stair:[[4.0,1.6,8.55],[7.6,1.9,8.9],'look'],stairtop:[[4.4,4.6,11.2],[6.2,0.9,9.1],'orbit'],
+ bedroom:[[7.3,1.6,3.5],[4.3,0.7,1.8],'look'],priem:[[4.85,1.6,14.15],[6.0,1.0,10.4],'look'],priemtop:[[5.7,10.5,15.6],[5.7,0.3,11.9],'orbit'],boiler:[[5.2,1.6,5.6],[7.4,1.1,4.4],'look'],glass:[[2.6,1.6,13.8],[0.7,1.2,10.7],'look'],
  all2:[[-3,23,-1],[3.8,3.06,7.2],'orbit',false],top2:[[3.8,30,7.6],[3.8,3.06,7.2],'orbit',false],
  master:[[4.5,E,0.6],[7.2,3.8,2.6],'look'],closet:[[4.5,E,7.8],[4.6,3.9,5.2],'look'],lounge:[[4.6,E,3.9],[1.2,3.7,0.8],'look'],nwbed:[[-1.2,E,7.2],[3.2,3.8,5.6],'look'],swbed:[[4.2,E,10.6],[7.0,3.6,12.6],'look'],
  corridor2:[[3.1,E,9.9],[7.4,3.2,8.9],'look'],cabinet:[[3.3,E,10.6],[-1.4,3.6,12.4],'look'],balcony:[[3.3,E,14.7],[-1.8,3.7,13.9],'look']};

diff --git a/index.html b/index.html
@@ -82,8 +82,8 @@ h2{font-size:18px;font-weight:600;margin:0}
 <div class="body">
 <span class="tag">ВАРИАНТ 5</span>
 <h2>10 м спереди, двускатная крыша</h2>
-<p>Вход с крыльцом справа, тамбур-прихожая 6,5 м² с вешалкой и обувницей. Слева гостиная у фасада, кухня 5,2 × 4,3 м с островом и в узкой задней части столовая с выходом в сад. Конёк над несущей стеной, второй этаж полумансардный.</p>
-<span class="nums">1 этаж <b>109,8</b> · 2 этаж <b>105,7</b> · всего <b>≈215,5 м²</b></span>
+<p>Вход с крыльцом справа в большую прихожую без перегородок, со шкафом, вешалкой и обувницей. Слева гостиная у фасада, за раздвижными стеклянными дверями кухня 5,2 × 4,3 м с островом и в узкой задней части столовая с выходом в сад. Конёк над несущей стеной, второй этаж полумансардный.</p>
+<span class="nums">1 этаж <b>110,3</b> · 2 этаж <b>105,7</b> · всего <b>≈216,0 м²</b></span>
 <a class="btn" href="dom/v5-dvuskatnaya.html">Открыть</a>
 </div>
 </article>

diff --git a/dom/README.md b/dom/README.md
@@ -8,7 +8,7 @@
 | `v2-vhod-sleva.html` | Вход, тамбур и гардероб слева спереди, лестница у левой стены. Справа вдоль всего дома спереди кухня-столовая, сзади гостиная, между ними стеклянные раздвижные двери. Артефакт: https://claude.ai/artifact/3iNbKe61ds9eAX2H2THzCe |
 | `v3-kuhnya-gostinaya-u-vhoda.html` | Вход, тамбур, кухня-столовая и гостиная слева; справа холл с лестницей (ступени 250 мм), санузел, бойлерная, кладовка, спальня сзади и гостевая спереди. Артефакт: https://claude.ai/artifact/2fQcV7woFJbdg7w1L99MuV |
 | `v4-shirina-10m.html` | Как вариант 3, но с 6,4 м от задней стены дом одной ступенькой расширяется к складу до 10 м (до склада везде 0,7 м). Кухня-столовая 31 м², крыша буквой Т. Артефакт: https://claude.ai/artifact/JNdo8EkxG9LTb8UJyd4uq7 |
-| `v5-dvuskatnaya.html` | Форма как в варианте 4. Вход справа: крыльцо в правом переднем углу под вторым этажом, за ним тамбур-прихожая 6,5 м² со шкафом, вешалкой и обувницей. Слева гостиная у фасада, кухня с островом и в узкой задней части столовая; справа бойлерная 4,8 м², холл с лестницей, санузел, постирочная и спальня. Двускатная крыша с коньком над несущей стеной, второй этаж полумансардный, окна в левом скате. Артефакт: https://claude.ai/artifact/1E7rer6eFDHS2GWG5vcdFW |
+| `v5-dvuskatnaya.html` | Форма как в варианте 4. Вход справа: крыльцо в правом переднем углу под вторым этажом, за ним большая прихожая-холл без перегородок до лестницы, со шкафом, вешалкой и обувницей. Слева гостиная у фасада, за перегородкой с двумя раздвижными стеклянными створками кухня с островом и в узкой задней части столовая; справа лестница, санузел, бойлерная 4,5 м² и спальня. Двускатная крыша с коньком над несущей стеной, второй этаж полумансардный, окна в левом скате. Артефакт: https://claude.ai/artifact/1E7rer6eFDHS2GWG5vcdFW |
 
 ## Сайт
 
